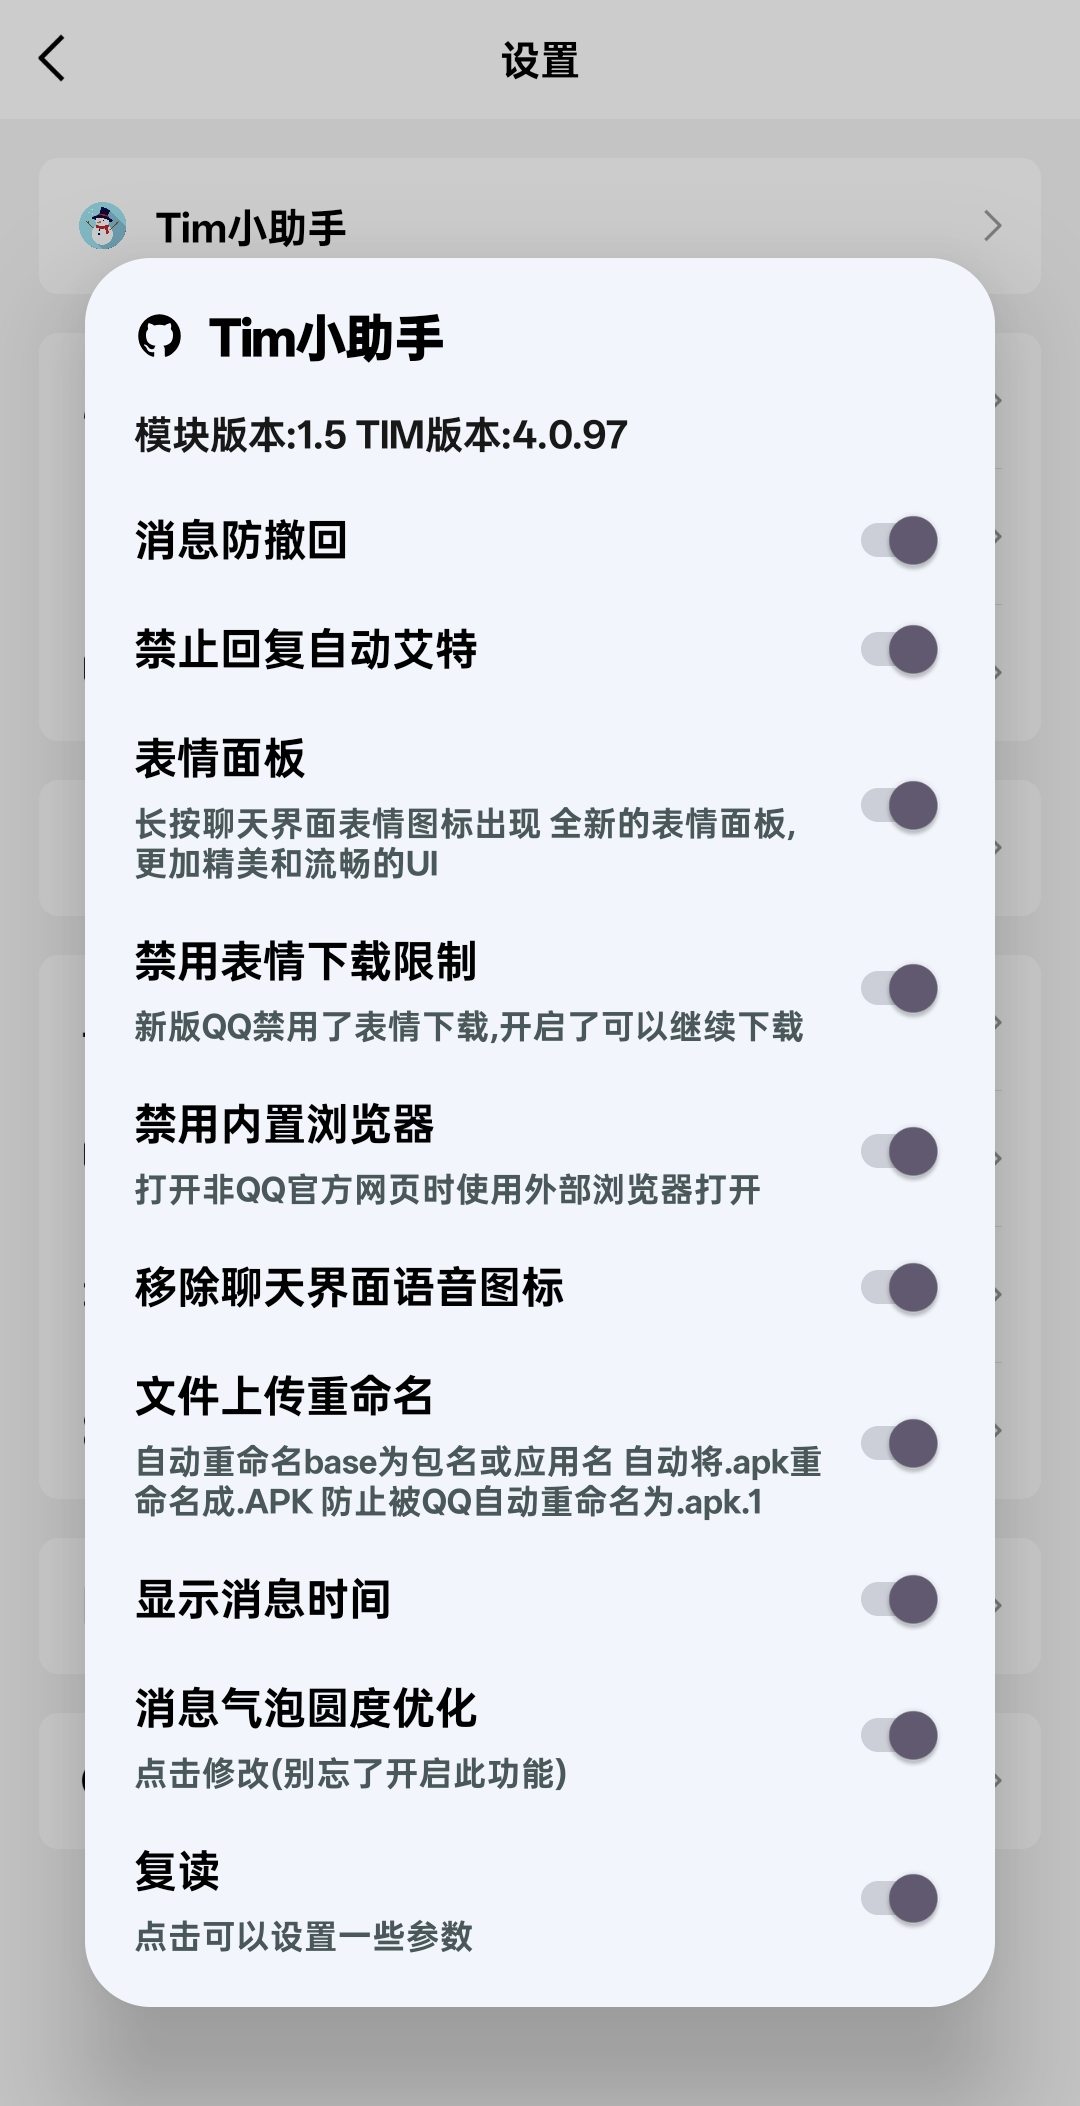
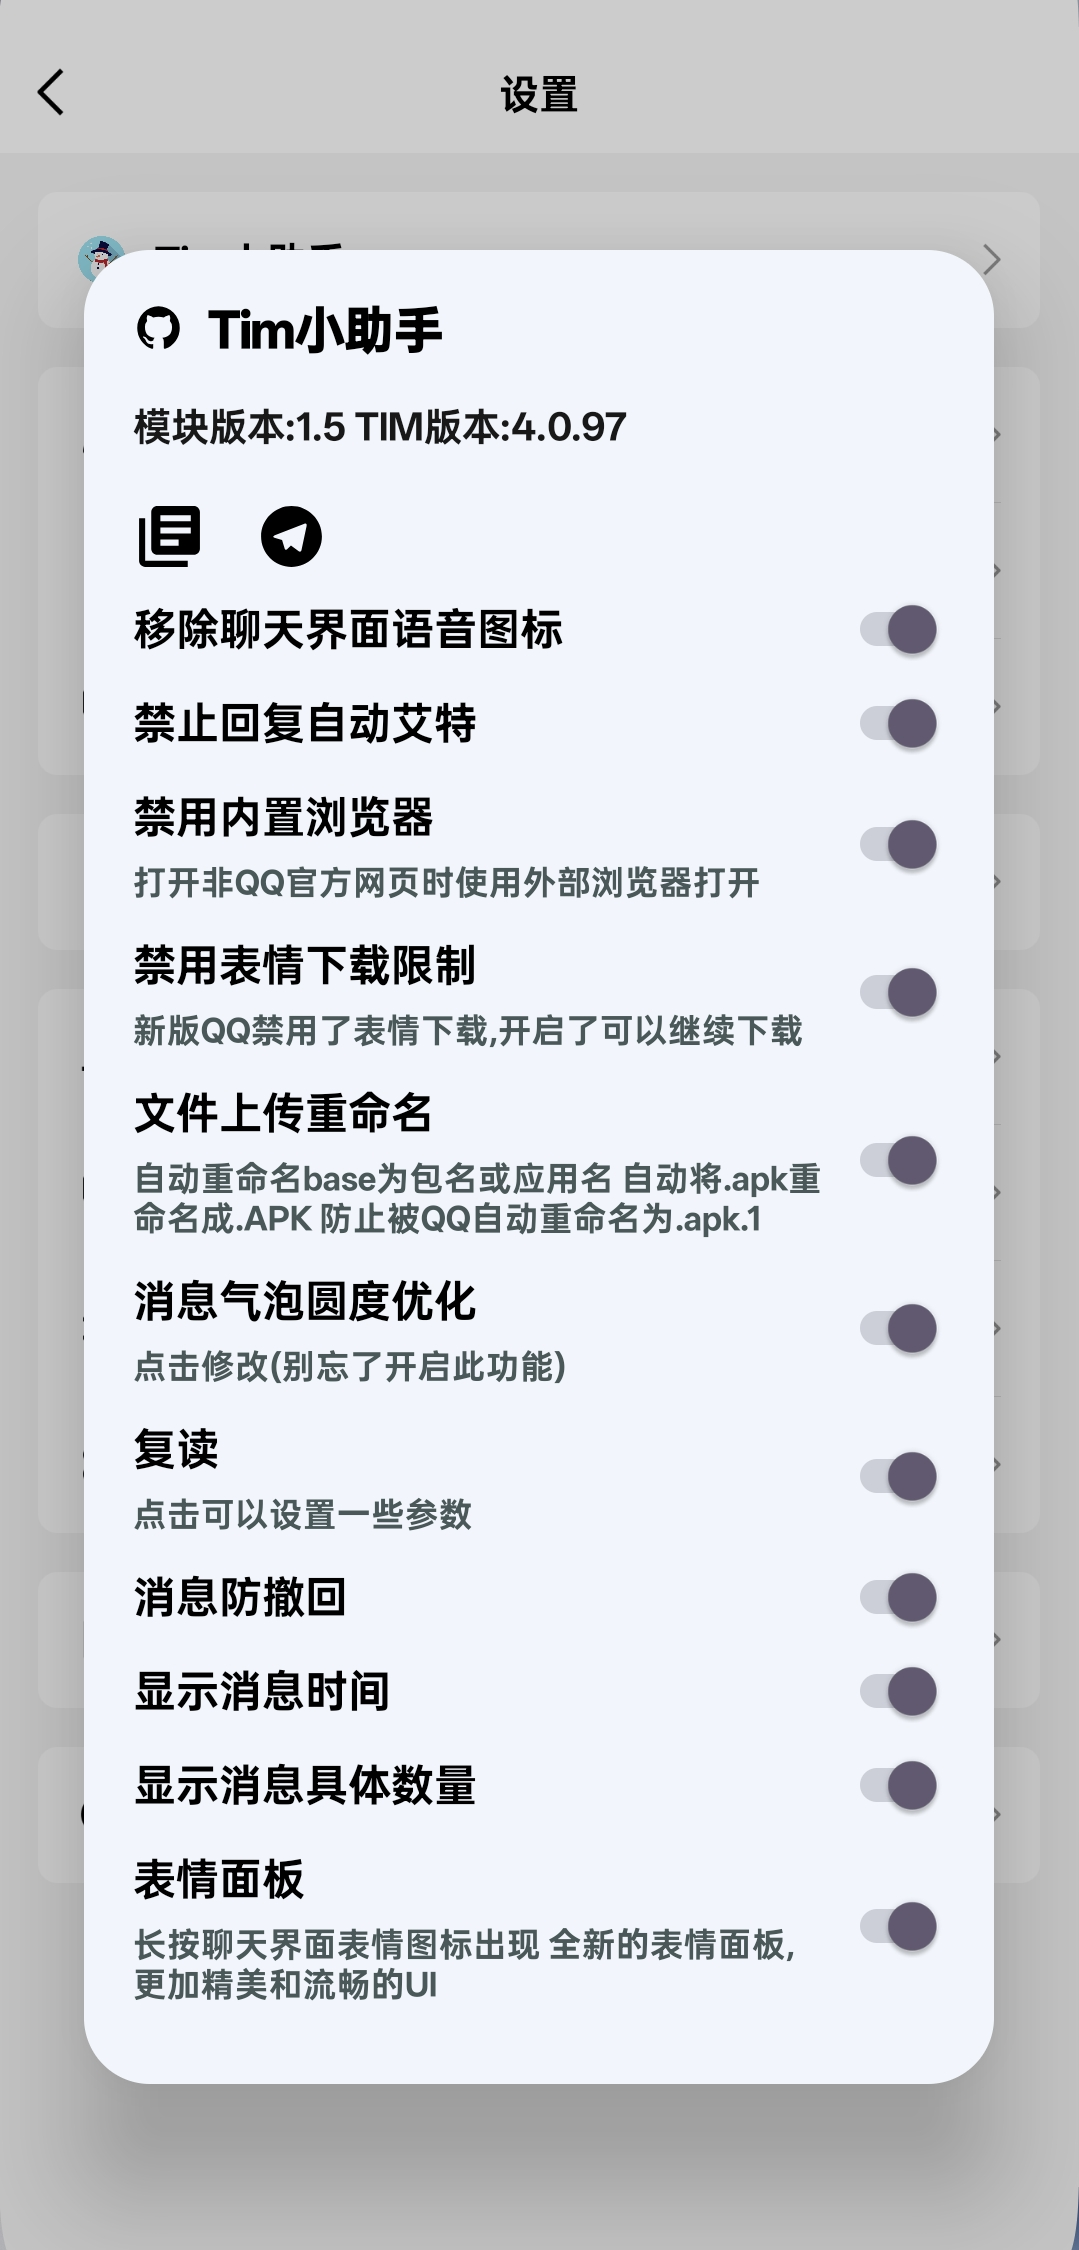
update git readme

diff --git a/README.md b/README.md
@@ -21,7 +21,7 @@
 
 ## 适配的版本范围 TimNT 4.x.x(目前维护到4.0.97 最新版)
 
-![Module-Img](https://github.com/suzhelan/TimTool/blob/master/github/img/v1.5.png)
+![Module-Img](https://github.com/suzhelan/TimTool/blob/master/github/img/v1.5.jng)
 
 ### 该插件仅供学习与练习
 